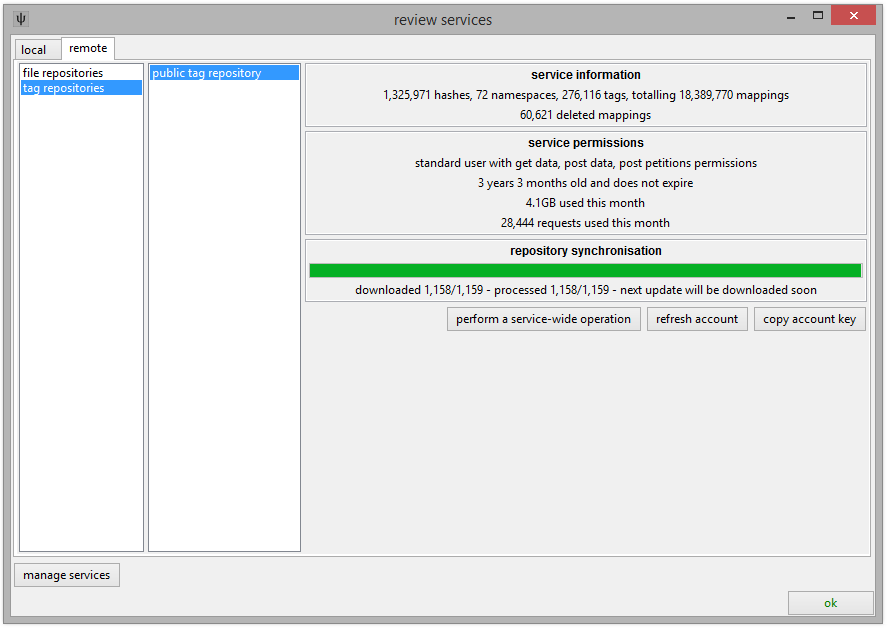
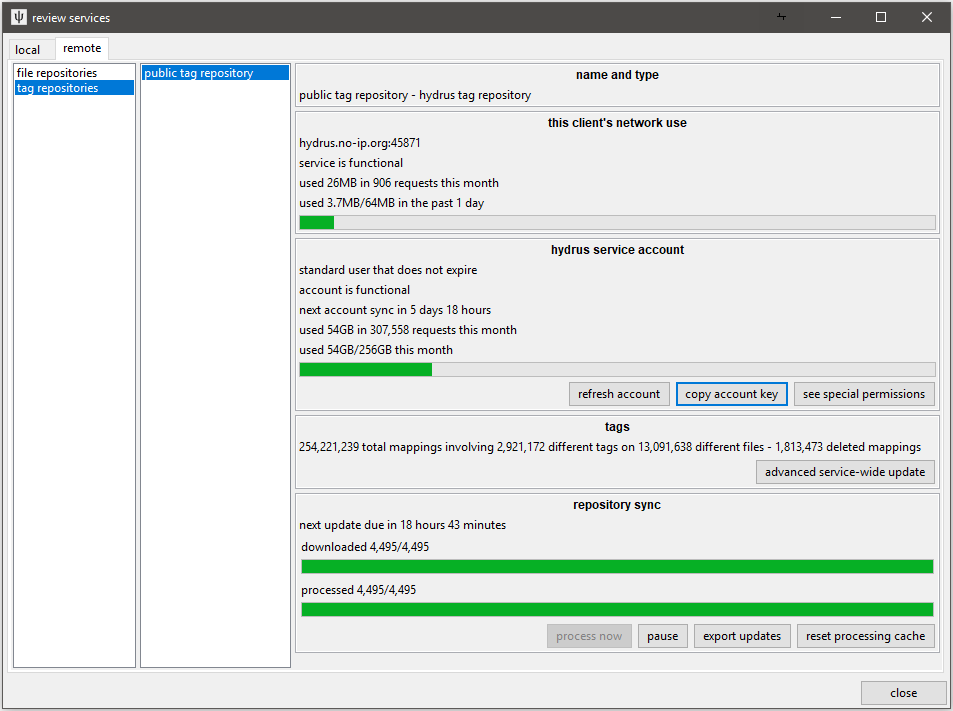
Version 307

Changed region(s): [[0.0, 0.0, 1.0, 1.0], [0.5764, 0.6937, 0.6978, 0.7238]]

diff --git a/help/changelog.html b/help/changelog.html
@@ -8,6 +8,45 @@
 		<div class="content">
 			<h3>changelog</h3>
 			<ul>
+				<li><h3>version 307</h3></li>
+				<ul>
+					<li>wrote a gelbooru 0.2.5 (which matches gelbooru itself) parser in the new system. it now has some more redundancy and produces md5 hash and source urls</li>
+					<li>fixed the e621 parser for flash files</li>
+					<li>manage tags is now a notebook rather than a listbook!</li>
+					<li>a problem where OS X was displaying the wrong label in the manage tags listbook is now fixed (as it no longer uses the buggy old listbook)</li>
+					<li>improved autocomplete focus setting in OS X in general</li>
+					<li>moved all paged importer loops to the new job scheduling system, which will massively cut down on idle time thread count (and some idle CPU usage) on clients with a bunch of import pages open</li>
+					<li>the main thread pool (which the job scheduling system uses) can now temporarily grow much larger (200 threads) when it gets hammered</li>
+					<li>recalibrated some thread watcher code to deal with being embedded in a larger object better (and sharing a page with other watcher importers)</li>
+					<li>finished the first version of a multiple watcher. it is ugly and only for advanced users for now--please check release post for more information</li>
+					<li>added 'use the multiple watcher on DnD events' to options->downloading, which will send thread url drag and drops straight to a new/existing multiple watcher!</li>
+					<li>gui session load now 'shows' the first page but loads everything to the right in the background, which saves some CPU and memory for large sessions. this means it now starts focused on the leftmost page rather than the right--see if you like it or not</li>
+					<li>'clear and load session' now fully deletes old pages and takes a little break between the clear and load step to make sure old large sessions are deleted tidily before loading the new stuff</li>
+					<li>cleaned up the new leaner popup message display code to react better to (and re-layout) sub-changes in its popups (so now when a subscription popup spawns a new progress gauge, it _should_ be positioned in the right place immediately)</li>
+					<li>if an import folder/subscription publishes files to a page while the main gui is minimised (and the action would result in a new page creation), the page add will be delayed until the gui is no longer minimised (new page layout in this case was broken due to minimised parent frame)</li>
+					<li>the edit subscription query panel will now spawn with the query text input focused</li>
+					<li>added a patch to ensure new booru import pages get query input focus after a second if the focus attempt on init failed (this will be fixed better in the new downloader system)</li>
+					<li>restored the 'clear deleted files record' button to the 'combined local files' service on _review services_, which was previously hidden during a significant service rewrite.</li>
+					<li>if critical master tables are missing on boot, the client will warn and provide info and then abandon the boot</li>
+					<li>if cache similar files tables are missing on boot, the client will warn and provide info and offer to recreate them empty and try to boot the client anyway (this replaces some old repair code that wasn't always kicking in at a good time)</li>
+					<li>if cache autocomplete tables are missing on boot, the client will warn and provide info and offer to recreate and repopulate them</li>
+					<li>if mappings tables are missing on boot, the client will warn and provide info and offer to recreate them empty and try to boot the client anyway</li>
+					<li>the emergency 'repair missing file locations' panel now runs in a more stable way</li>
+					<li>this emergency dialog will now also recognise 'I fixed all the file paths but cannot do the thumbnail paths' situations and will present the same 'ok, make sure you run regen thumbs after boot' dialog as if all the missing paths were thumbnail related</li>
+					<li>you can now turn off x/y page name import progress under options->gui</li>
+					<li>fixed an issue where tags that begin with ':' like ':p' were not getting through the new importing system</li>
+					<li>fixed an issue where tags that begin with ':' like ':p' could sometimes get prepended extra escape characters and end up looking like ':::p'</li>
+					<li>fixed sibling tag searching (e.g. if a->b exists and you search for b, results with a but not b should also appear), which the recent tag search optimisation accidentally disabled</li>
+					<li>whole bunch of refactoring and cleanup of ClientData and ClientGUICommon</li>
+					<li>cleaned up some spammy splash text status setting that was flooding some debug info with useless garbage</li>
+					<li>gave getting_started_tags.html's tag repo section and access_keys.html a pass, updating the ancient screenshot and linking advanced users to the latest QuickSync location</li>
+					<li>some misc help updates</li>
+					<li>misc autocomplete logic improvements</li>
+					<li>misc ui display fixes</li>
+					<li>misc wx destroy code stability improvement</li>
+					<li>updated ffmpeg for windows builds to the new 4.0 release</li>
+					<li>updated sqlite for windows builds</li>
+				</ul>
 				<li><h3>version 306</h3></li>
 				<ul>
 					<li>the file import status list now has 'open selected import files in a new page', which should show up where it is possible. this is a bit prototype and ugly--it'll show _all_ files, including in-trash and permanently deleted (which will show up with the hydrus thumbnail)</li>

diff --git a/help/access_keys.html b/help/access_keys.html
@@ -9,16 +9,18 @@
 			<h3>first off</h3>
 			<p>I have purposely not pre-baked this into the client's install. You have to put it in yourself. The client won't connect anywhere until you tell it to.</p>
 			<h3>access keys</h3>
-			<p><b><i>If this stuff be-fuzzles you, you can go </i>help->i don't know what I am doing->just set up some repositories for me, please<i> and you _should_ be all set up automatically.</i></b></p>
-			<p>I run a public, objective tag repository that <a href="tagging_schema.html">you are welcome to contribute</a> to. I also run a read-only file repository that you can search and download from to get a feel for the interface. The files on my file repo are appropriately tagged in my tag repo.</p>
+			<p><b><i>If you don't understand this, you can just go </i>help->i don't know what I am doing->just set up some repositories for me, please<i> and you _should_ be all set up automatically.</i></b></p>
+			<p>I run a public tag repository that <a href="tagging_schema.html">you are welcome to contribute</a> to. I also run a read-only file repository, which is mostly just an old thing for fun, but you are welcome to search and download from it to get a feel for the interface. The files on my file repo are appropriately tagged in my tag repo.</p>
+			<p>To add or edit a new repository, hit <i>services->manage services</i> and click the add or edit button:</p>
 			<p><img src="edit_repos_public_tag_repo.png" /></p>
-			<p><img src="edit_repos_file_repo.png" /></p>
+			<p>It is worth testing the address and access key just to make sure your firewall and key is all correct.</p>
 			<p>Here's the info so you can copy it:</p>
 			<ul>
-				<li>public tag repository: 4a285629721ca442541ef2c15ea17d1f7f7578b0c3f4f5f2a05f8f0ab297786f@hydrus.no-ip.org:45871</li>
-				<li>read-only file repository: 8f8a3685abc19e78a92ba61d84a0482b1cfac176fd853f46d93fe437a95e40a5@hydrus.no-ip.org:45872</li>
+				<li>public tag repository: 4a285629721ca442541ef2c15ea17d1f7f7578b0c3f4f5f2a05f8f0ab297786f@<a href="https://hydrus.no-ip.org:45871">hydrus.no-ip.org:45871</a></li>
+				<li>read-only file repository: 8f8a3685abc19e78a92ba61d84a0482b1cfac176fd853f46d93fe437a95e40a5@<a href="https://hydrus.no-ip.org:45872">hydrus.no-ip.org:45872</a></li>
 			</ul>
-			<p><b>Tags are rich, cpu-intensive metadata. My repository has millions of mappings, and your client will eventually download and store them all. It will take a few hundred MB and some <i>hours</i> total processing time to fully synchronise. It will mostly happen in the background, without you noticing--for most users, it takes a week or more to quietly catch up. If you interrupt its processing maintenance, it will continue where it left off the next time it runs.</b></p>
+			<p><b>Tags are rich, cpu-intensive metadata. My repository has hundreds of millions of mappings, and your client will eventually download and index them all. It will take a few hundred MB and <i>hours</i> of total processing time to fully synchronise. It is best left to work on this in small pieces in the background, either during idle time or shutdown time, so unless you are an advanced user, just leave it to download and process on its own--it usually takes a couple of weeks to quietly catch up.</b></p>
+			<p>If you are an advanced user, you can manually export (<i>services->review services->export updates</i> if <i>advanced mode</i> is on) and import (<i>services->import repository update files</i>) the update files a repository gives your client to save you redownloading them elsewhere. If you want to set up a PTR client a bit quicker than usual (and you understand the processing routine and the delays it can expeience if it encounters thousands of new update files at once), check the update archive <a href="https://cuddlebear92.github.io/Quicksync/">here</a>.</p>
 		</div>
 	</body>
 </html>

diff --git a/help/getting_started_tags.html b/help/getting_started_tags.html
@@ -37,12 +37,13 @@
 			<h3>tag repositories</h3>
 			<p>It can take a long time to tag even this small number of files well, so I created <i>tag repositories</i> so people can share the work.</p>
 			<p>Tag repos store many file->tag relationships. Anyone who has an access key to the repository can sync with it and hence download all these relationships. If any of their own files match up, they will get those tags. Access keys will also usually have permission to upload new tags and ask for existing ones to be deleted.</p>
-			<p>Anyone can run a tag repository, but it is a bit complicated for new users. I run a public tag repository that you are very welcome to access and contribute to. To connect with it, go <i>services->manage services->remote->tag repositories</i> and hit the 'add' button. You'll be asked if you have a <i>registration key</i> or an <i>access key</i>; you have an access key.</p>
+			<p>Anyone can run a tag repository, but it is a bit complicated for new users. I run a public tag repository that you are <a href="tagging_schema.html">very welcome to access and contribute to</a>. To connect with it, go <i>services->manage services</i> and hit the 'add' button. Fill it in something like this:</p>
 			<p><img src="edit_repos_public_tag_repo.png" /></p>
 			<p>Here's the info so you can copy it:</p>
-			<ul><li>4a285629721ca442541ef2c15ea17d1f7f7578b0c3f4f5f2a05f8f0ab297786f@hydrus.no-ip.org:45871</li></ul>
+			<ul><li>4a285629721ca442541ef2c15ea17d1f7f7578b0c3f4f5f2a05f8f0ab297786f@<a href="https://hydrus.no-ip.org:45871">hydrus.no-ip.org:45871</a></li></ul>
+			<p>It is worth checking the test address and access key buttons just to double-check your firewall and key are all correct.</p>
 			<p>Over time, usually when it is idle, your client will download updates from the repository until it is fully synchronised. You can customise when this happens in <i>file->options->maintenance and processing</i>. As the repository synchronises, you should see some new tags appear, particularly on famous files that lots of people have.</p>
-			<p><b>Tags are rich, cpu-intensive metadata. My repository has millions of mappings, and your client will download and store them all. It will take a few hundred MB and several <i>hours</i> total processing time to fully synchronise. It will mostly happen in the background, without you noticing.</b></p>
+			<p><b>Tags are rich, cpu-intensive metadata. My repository has hundreds of millions of mappings, and your client will eventually download and index them all. It will take a few hundred MB and <i>hours</i> of total processing time to fully synchronise. It is best left to work on this in small pieces in the background, either during idle time or shutdown time, so unless you are an advanced user, just leave it to download and process on its own--it usually takes a couple of weeks to quietly catch up.</b></p>
 			<p>You can watch more detailed synchronisation progress in the <i>services->review services</i> window.</p>
 			<p><img src="tag_repo_review.png" /></p>
 			<p>Your new service should now be listed on the left of the manage tags dialog. Adding tags to a repository works very similarly to the local tags service except hitting 'apply' will not immediately confirm your changes--it will put them in a queue to be uploaded. These 'pending' tags will be counted with a plus '+' or minus '-' sign:</p>
